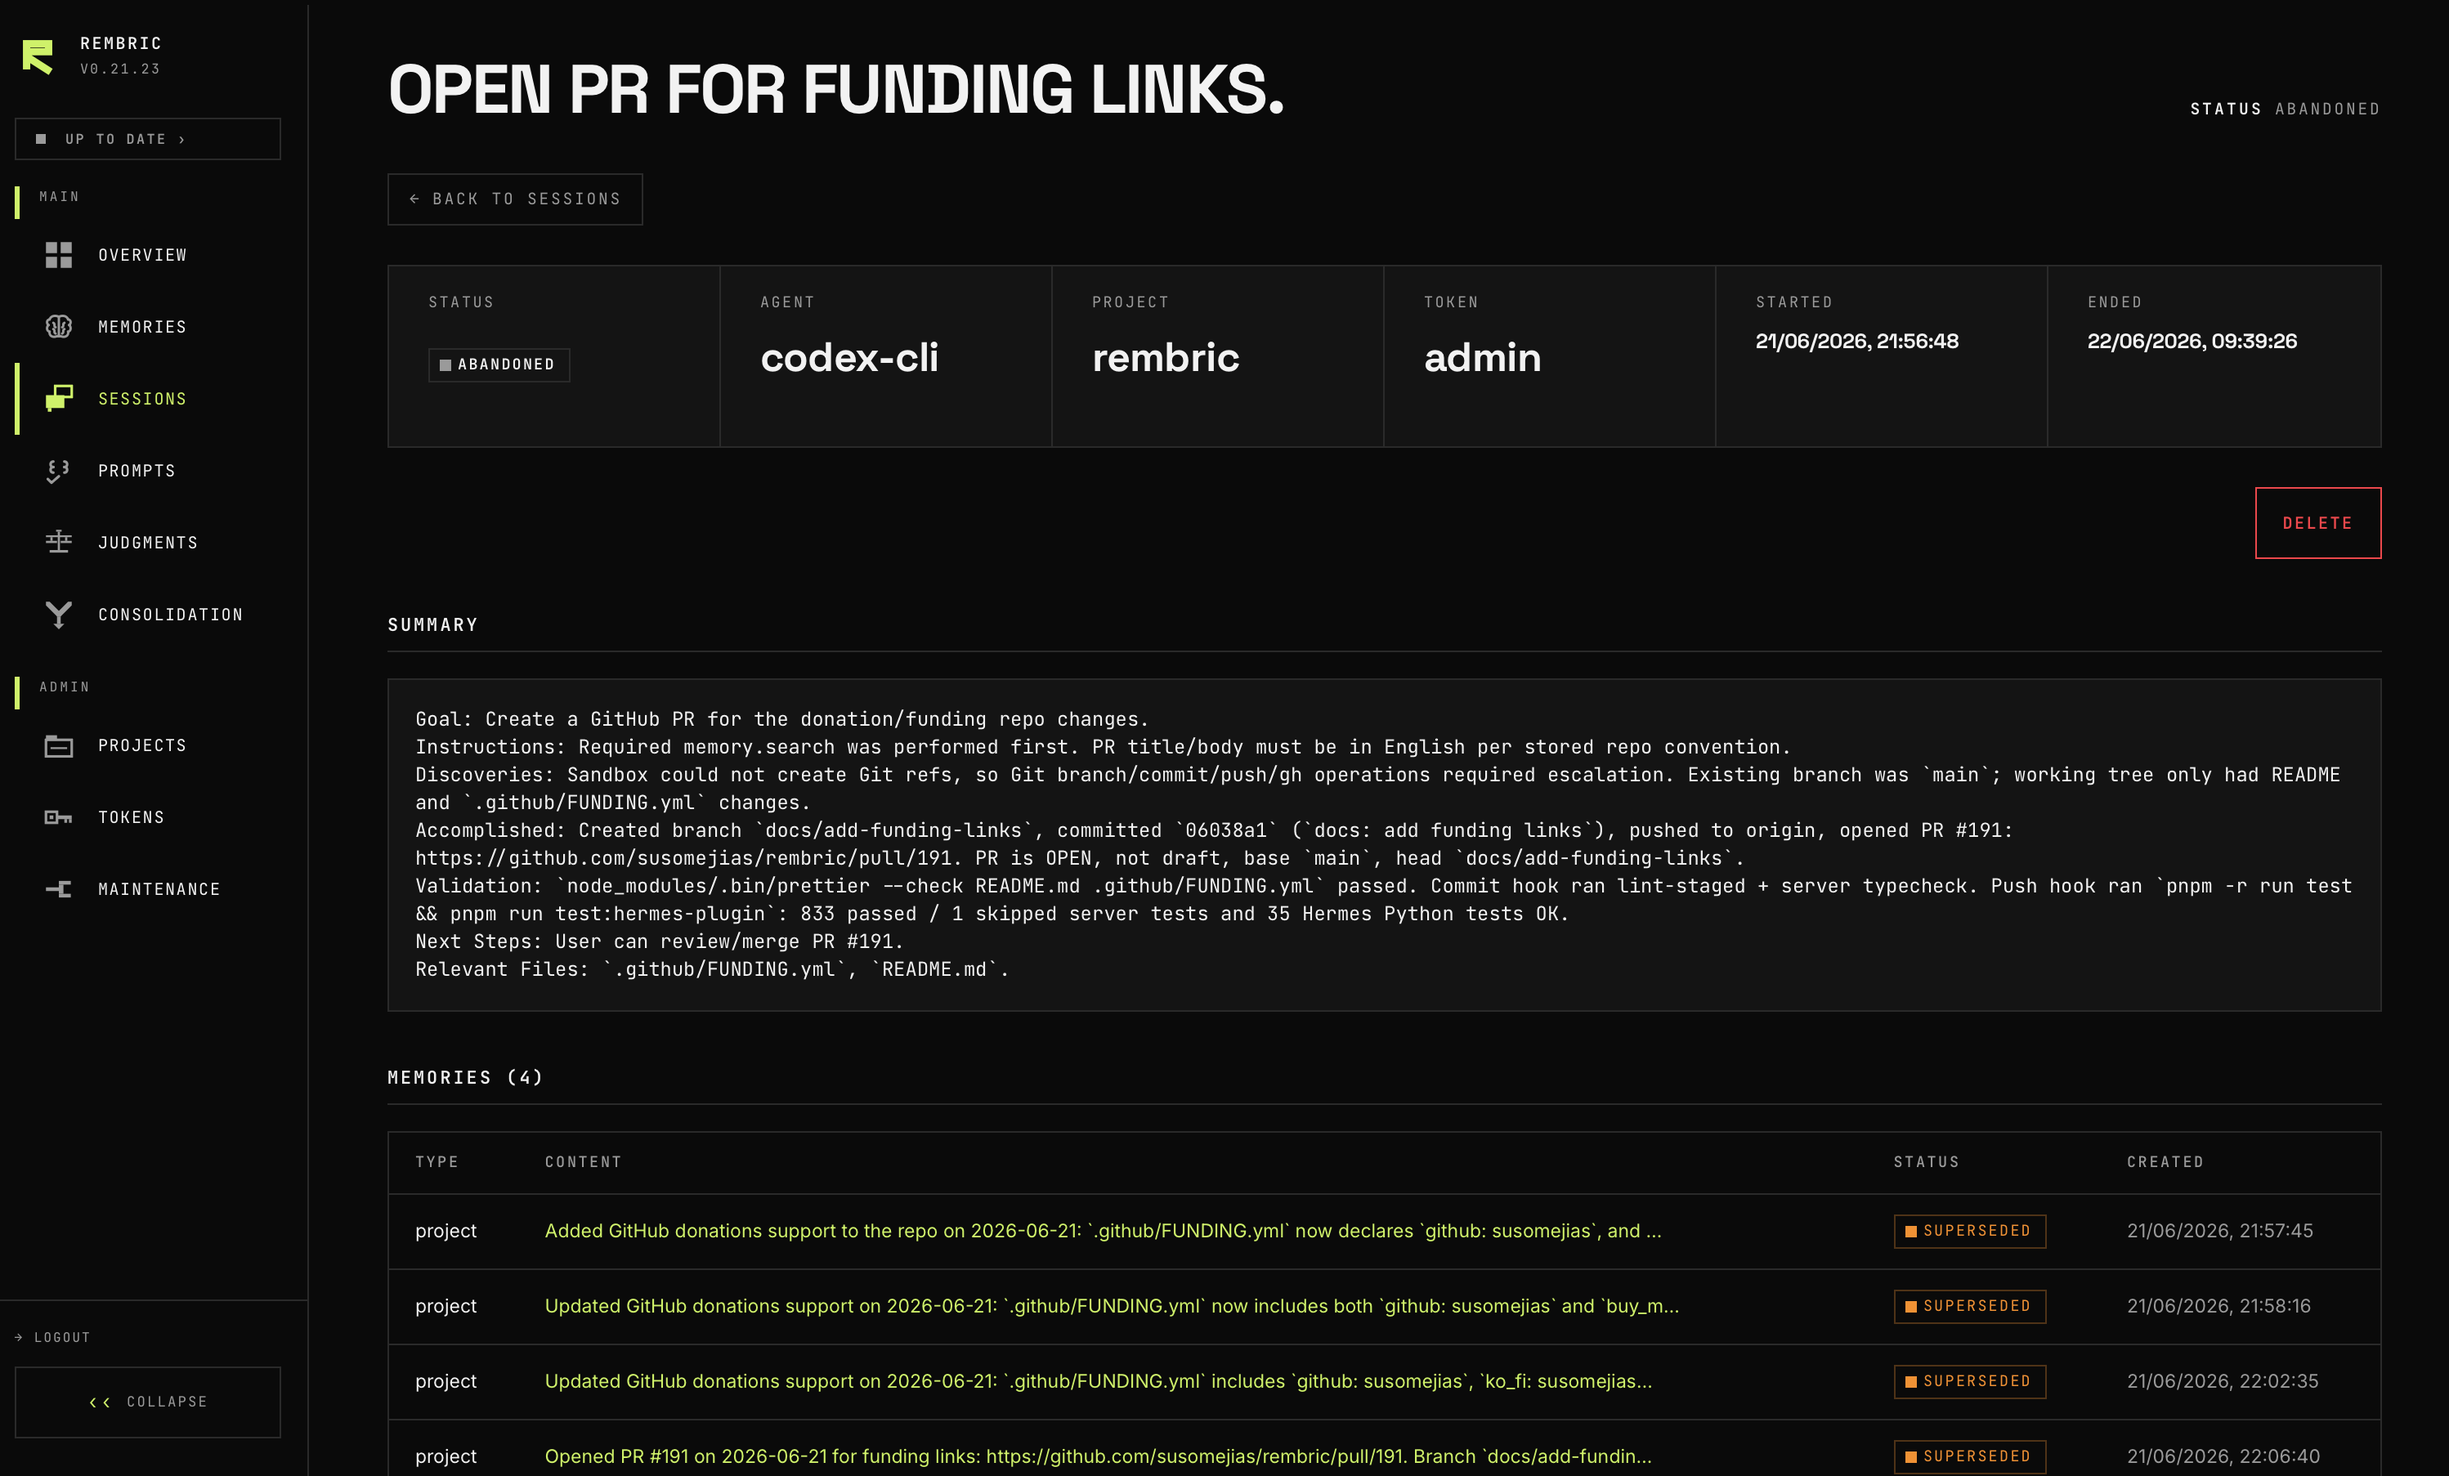
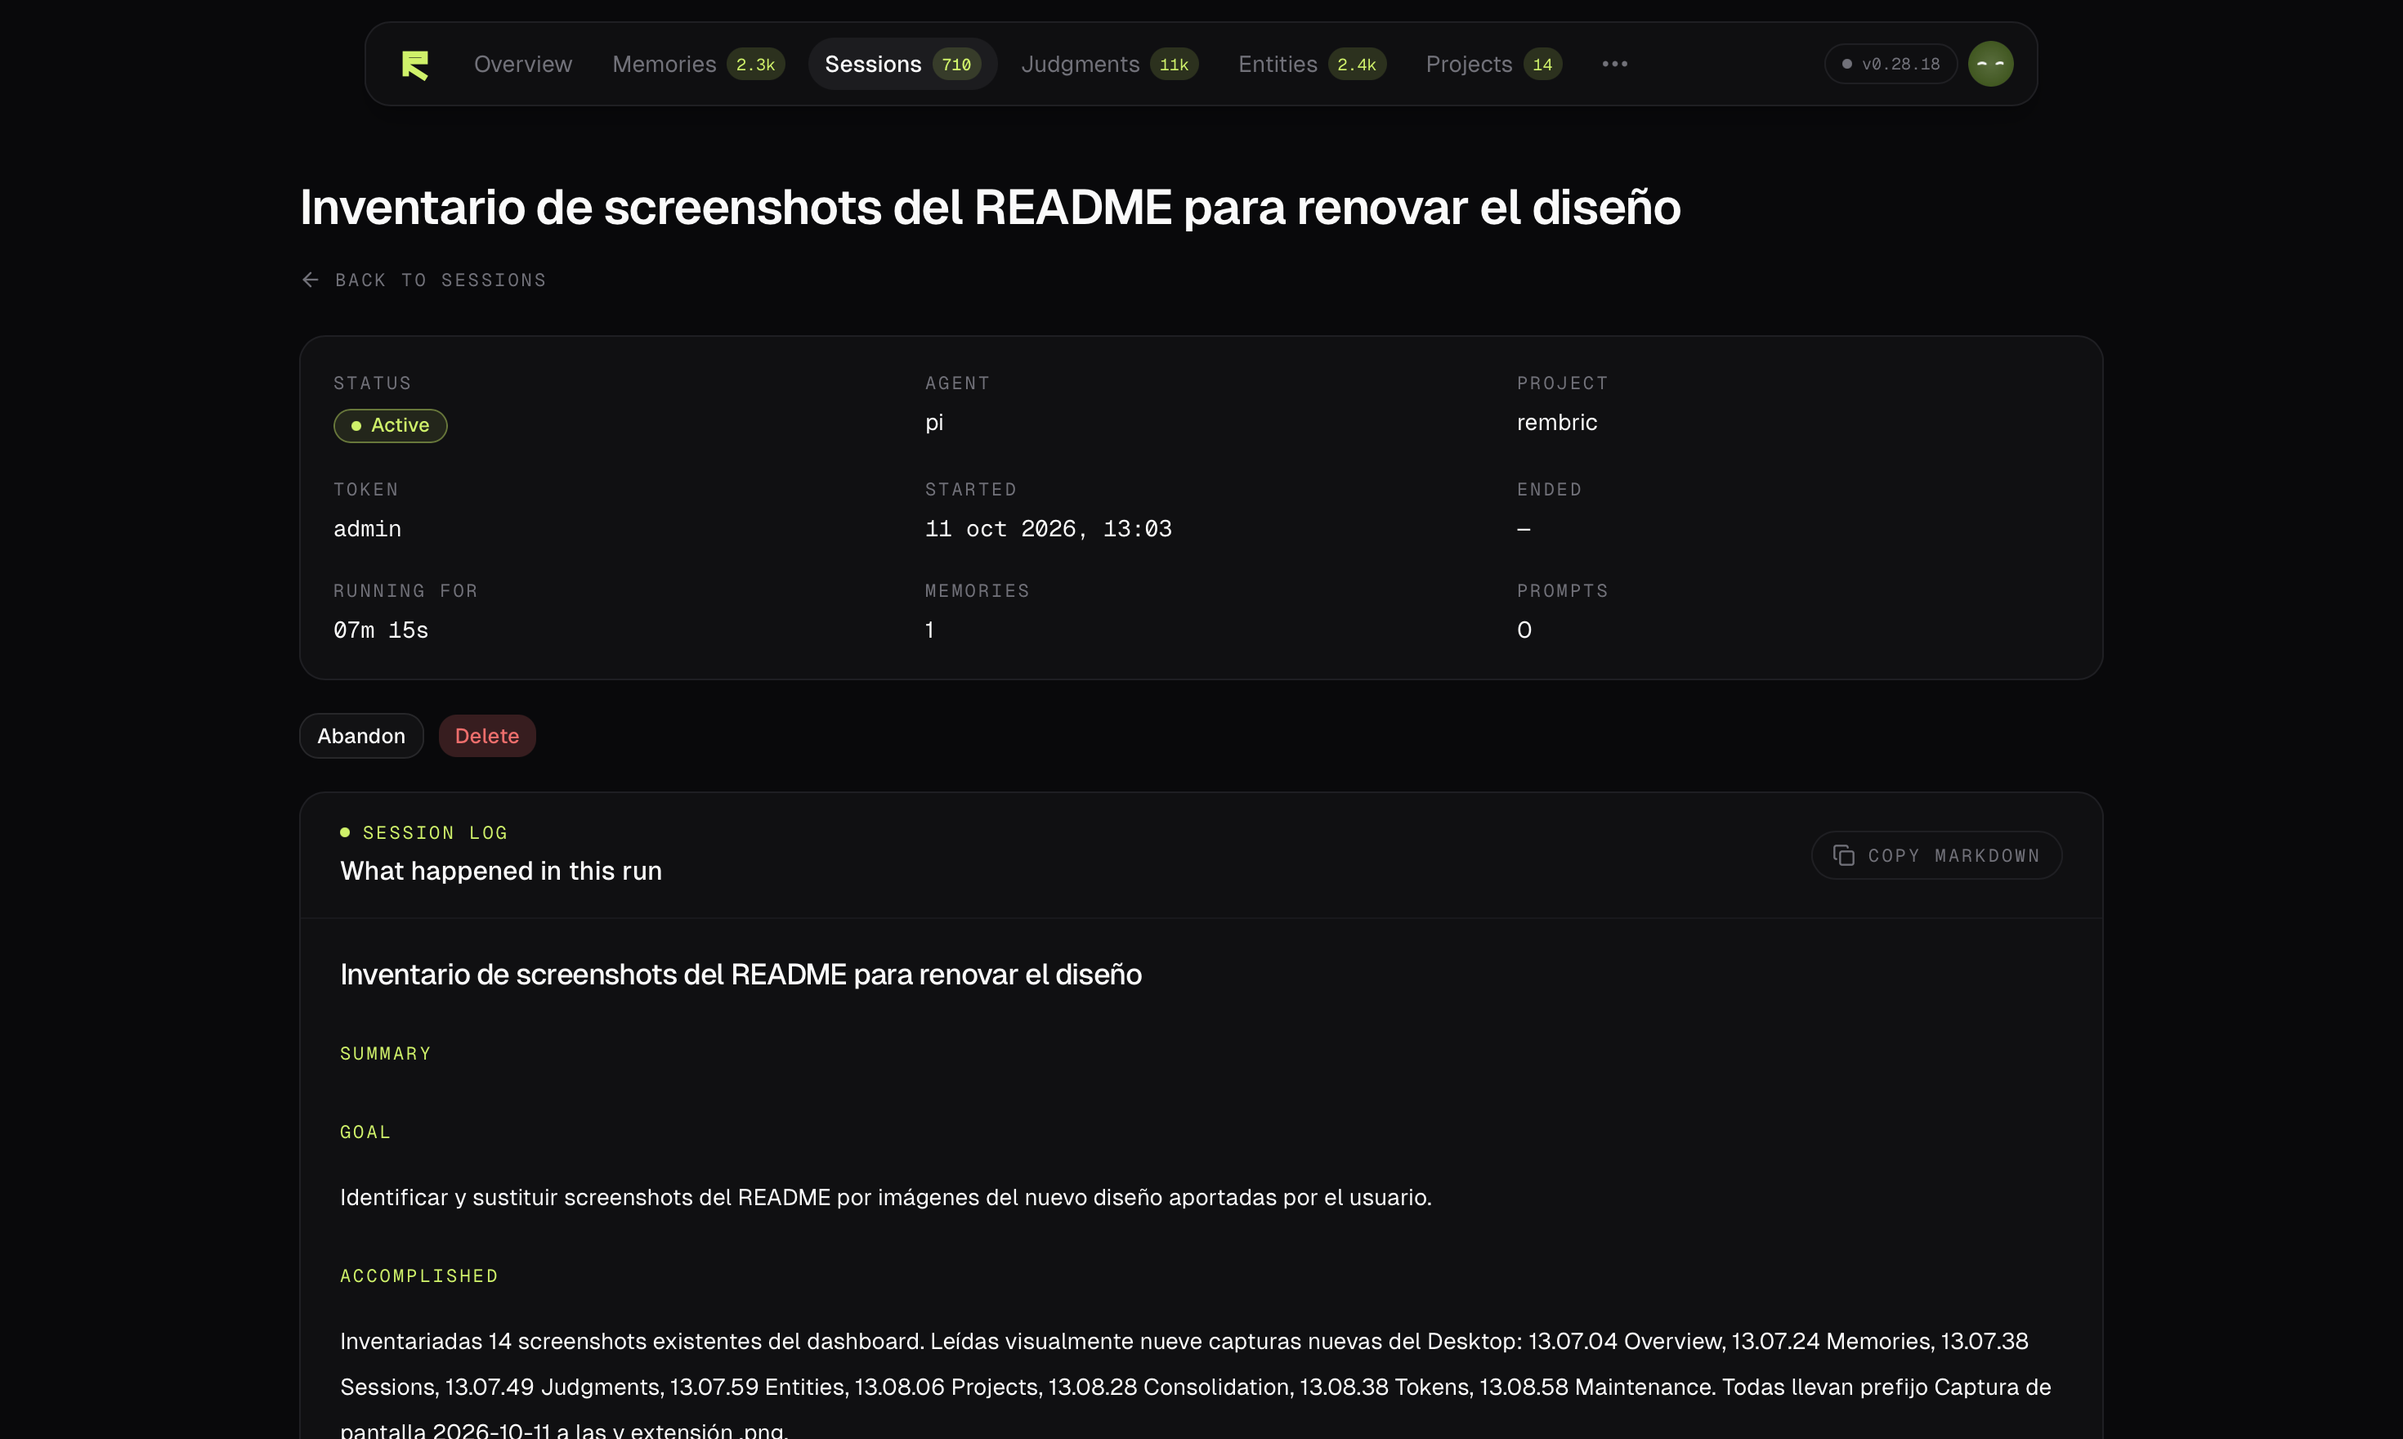
docs: refresh dashboard screenshots for the new design

diff --git a/README.md b/README.md
@@ -292,7 +292,7 @@ Controls how `memory.save` surfaces conflict candidates to the agent for fresh-c
 
 ## Dashboard
 
-Self-hosted operator surface for every memory, session, prompt, judgment, and consolidation op. SSR HTML + HTMX, brutalist on purpose, no JS framework, no telemetry. Auth is one admin token — no onboarding flow.
+Self-hosted operator surface for every memory, session, prompt, judgment, entity, and consolidation op. Dark monochrome surfaces with a lime accent. Auth is one admin token — no onboarding flow.
 
 <p align="center">
   <img src="./docs/screenshots/dashboard-login.png" alt="Sign-in" width="100%">
@@ -304,24 +304,18 @@ Self-hosted operator surface for every memory, session, prompt, judgment, and co
   <img src="./docs/screenshots/dashboard-overview.png" alt="Overview" width="100%">
 </p>
 
-<p align="center"><i>Overview · counters, pending judgments queue, recent agent sessions.</i></p>
+<p align="center"><i>Overview · memory activity, active sessions, latest judgments, consolidation and system health.</i></p>
 
 <details>
-<summary><b>More surfaces</b> — consolidation health · memories · sessions · judgments · consolidation · projects · tokens · updates · maintenance</summary>
+<summary><b>More surfaces</b> — memories · sessions · judgments · entities · consolidation · projects · tokens · updates · maintenance</summary>
 
 <br>
-
-<p align="center">
-  <img src="./docs/screenshots/dashboard-consolidation-health.png" alt="Consolidation health" width="100%">
-</p>
-
-<p align="center"><i>Consolidation health · last run, ops applied, orphan pendings, 7-day activity, system info.</i></p>
 
 <p align="center">
   <img src="./docs/screenshots/dashboard-memories.png" alt="Memories list" width="100%">
 </p>
 
-<p align="center"><i>Memories · append-only; filter by scope, status, type, FTS5 search.</i></p>
+<p align="center"><i>Memories · status filters, needs-review queue, search, and bulk actions.</i></p>
 
 <p align="center">
   <img src="./docs/screenshots/dashboard-sessions.png" alt="Sessions list" width="100%">
@@ -333,13 +327,25 @@ Self-hosted operator surface for every memory, session, prompt, judgment, and co
   <img src="./docs/screenshots/dashboard-memory-detail.png" alt="Memory detail" width="100%">
 </p>
 
-<p align="center"><i>Memory detail · status, scope, project, type, full content body.</i></p>
+<p align="center"><i>Memory detail · status, scope, project, type, review state, and content.</i></p>
+
+<p align="center">
+  <img src="./docs/screenshots/dashboard-memory-detail-judgments.png" alt="Memory detail judgments and actions" width="100%">
+</p>
+
+<p align="center"><i>Memory detail · related judgments, predecessors, confirmations, and lifecycle actions.</i></p>
 
 <p align="center">
   <img src="./docs/screenshots/dashboard-session-detail.png" alt="Session detail" width="100%">
 </p>
 
-<p align="center"><i>Session detail · run metadata, summary, and memories attached to the session.</i></p>
+<p align="center"><i>Session detail · run metadata and summary.</i></p>
+
+<p align="center">
+  <img src="./docs/screenshots/dashboard-session-detail-memories.png" alt="Session detail attached memories and prompts" width="100%">
+</p>
+
+<p align="center"><i>Session detail · memories and prompts attached to the run.</i></p>
 
 <p align="center">
   <img src="./docs/screenshots/dashboard-judgments.png" alt="Judgments" width="100%">
@@ -351,7 +357,19 @@ Self-hosted operator surface for every memory, session, prompt, judgment, and co
   <img src="./docs/screenshots/dashboard-judgment-detail.png" alt="Judgment detail" width="100%">
 </p>
 
-<p align="center"><i>Judgment detail · source, target, verdict, confidence, reason, and evidence for one relation.</i></p>
+<p align="center"><i>Judgment detail · verdict, confidence, source, and target memories.</i></p>
+
+<p align="center">
+  <img src="./docs/screenshots/dashboard-judgment-detail-evidence.png" alt="Judgment detail reason and evidence" width="100%">
+</p>
+
+<p align="center"><i>Judgment detail · reason, evidence, and available actions.</i></p>
+
+<p align="center">
+  <img src="./docs/screenshots/dashboard-entities.png" alt="Entities list" width="100%">
+</p>
+
+<p align="center"><i>Entities · exact identifiers, kind filters, project links, and index rebuild.</i></p>
 
 <p align="center">
   <img src="./docs/screenshots/dashboard-consolidation.png" alt="Consolidation" width="100%">
